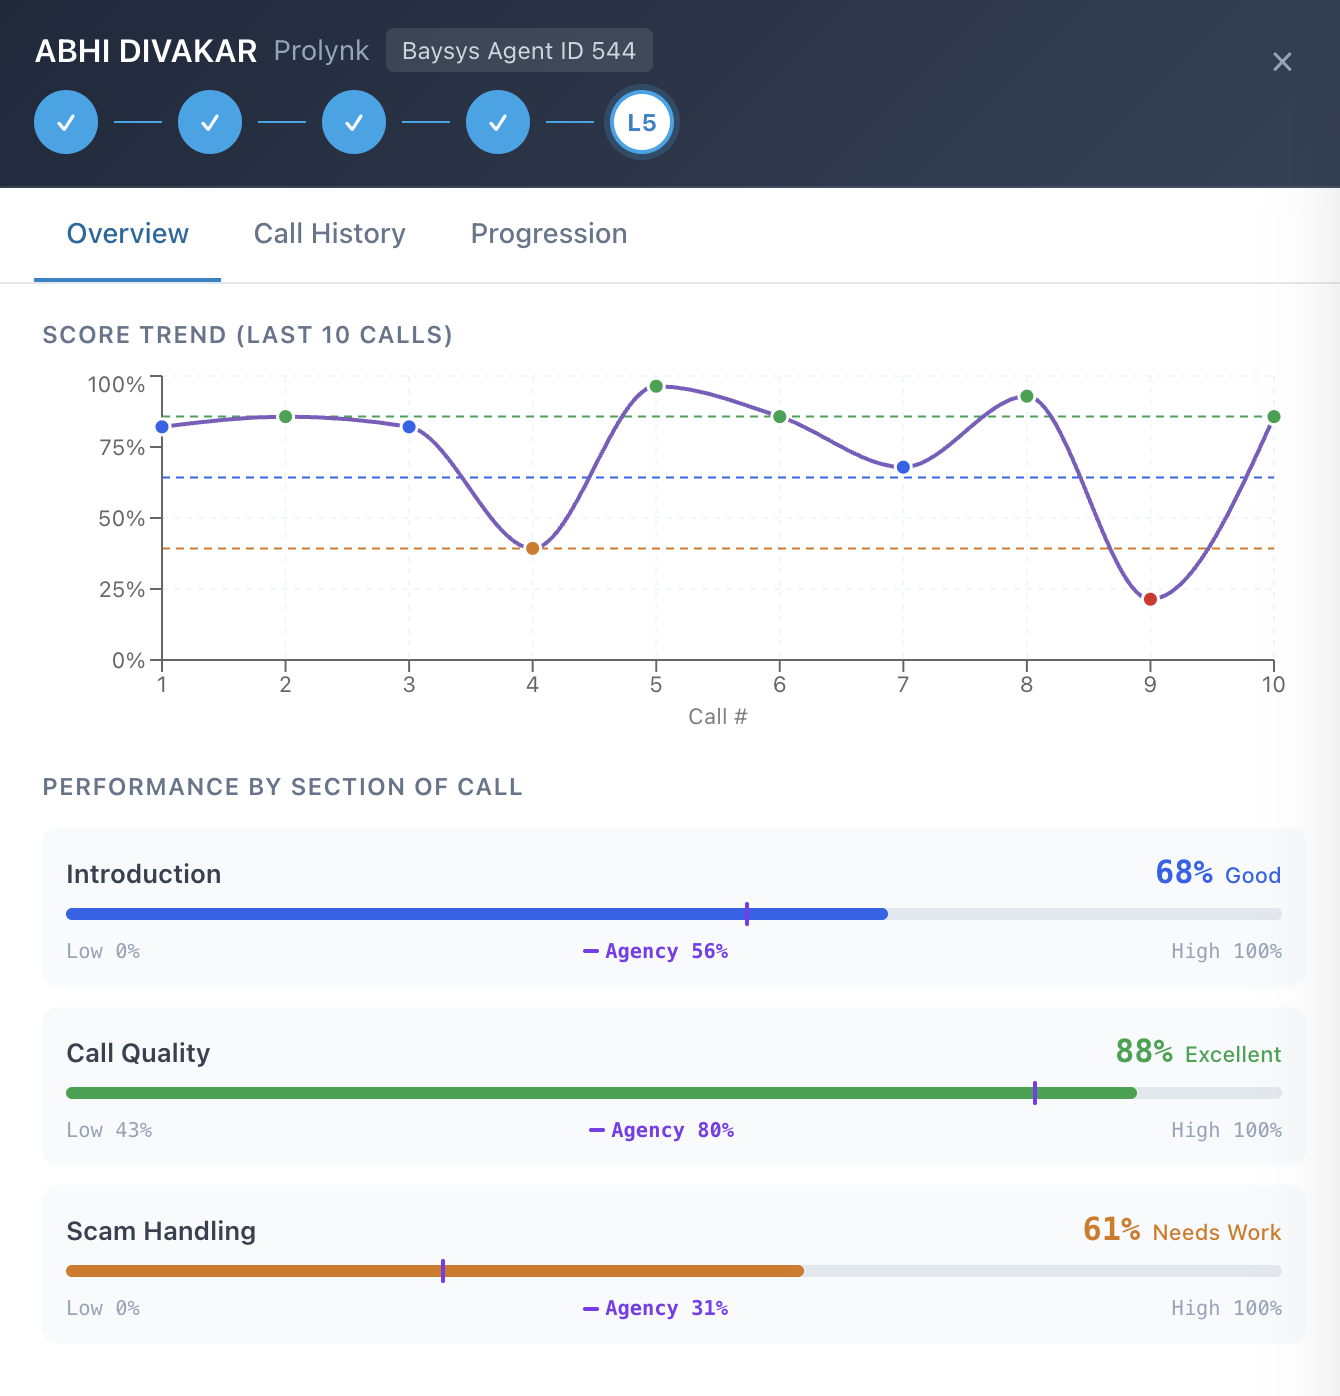
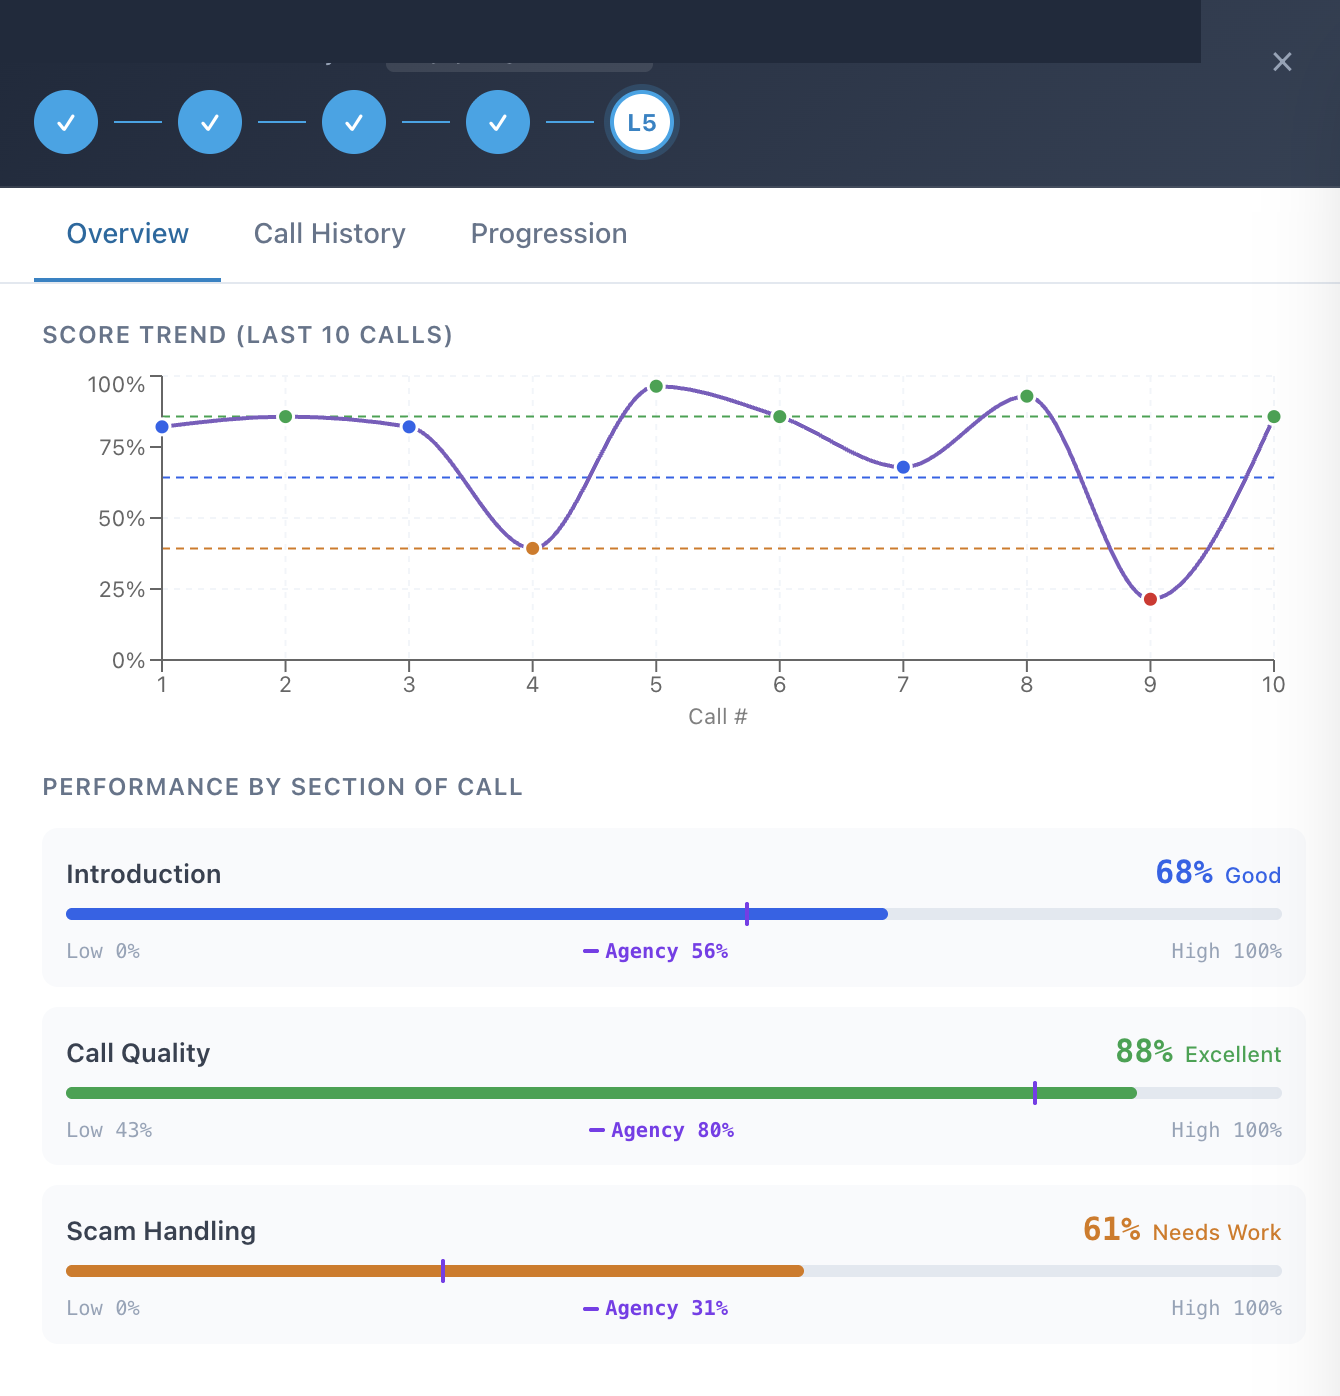
Anonymise agent name in story-continued article and screenshots

Changed region(s): [[0.0306, 0.0, 0.4896, 0.0616]]

diff --git a/posts/baystreet-agent-trainer-story-continued.html b/posts/baystreet-agent-trainer-story-continued.html
@@ -439,19 +439,19 @@
 
   <div class="section-rule"><span>One Agent's Record</span></div>
 
-  <h2>What the Drawer Shows: Abhi Divakar, Prolynk, Agent ID 544</h2>
+  <h2>What the Drawer Shows: An L5 Agent's Record</h2>
 
-  <p>Every agent in the dashboard is clickable. The agent drawer slides in from the right with three tabs: Overview (score trend and section performance), Call History (recent calls with expandable scorecards and audio), and Progression (level track with call counts at each level). The data in Abhi Divakar's drawer, from Prolynk, illustrates both what the system produces and what it reveals.</p>
+  <p>Every agent in the dashboard is clickable. The agent drawer slides in from the right with three tabs: Overview (score trend and section performance), Call History (recent calls with expandable scorecards and audio), and Progression (level track with call counts at each level). The data in one agent's drawer illustrates both what the system produces and what it reveals.</p>
 
   <div class="screenshot-wrap">
-    <img src="screenshots/score-trend-overview.png" alt="Abhi Divakar agent overview showing L5 level track, score trend over 10 calls, and section performance bars" class="screenshot-frame" />
-    <p class="fig-cap"><strong>Figure 7 — Agent Overview: Abhi Divakar, Prolynk.</strong> All four level checkmarks filled — Abhi has completed L1 through L4 and is now in L5 (adversarial personas, maximum difficulty). Score trend over last 10 calls shows wide volatility: two calls near 100%, one call in Needs Work territory (orange dot, call 5), one call ending as Poor (red dot, call 10). Section performance: Introduction 68% Good (above agency avg 56%), Call Quality 88% Excellent (above agency avg 80%), Scam Handling 60% Needs Work (above agency avg 30%). Even a high-performing L5 agent has not solved Scam-Trust.</p>
+    <img src="screenshots/score-trend-overview.png" alt="L5 agent overview showing level track, score trend over 10 calls, and section performance bars" class="screenshot-frame" />
+    <p class="fig-cap"><strong>Figure 7 — Agent Overview: an L5 agent's record.</strong> All four level checkmarks filled — this agent has completed L1 through L4 and is now in L5 (adversarial personas, maximum difficulty). Score trend over last 10 calls shows wide volatility: two calls near 100%, one call in Needs Work territory (orange dot, call 5), one call ending as Poor (red dot, call 10). Section performance: Introduction 68% Good (above agency avg 56%), Call Quality 88% Excellent (above agency avg 80%), Scam Handling 60% Needs Work (above agency avg 30%). Even a high-performing L5 agent has not solved Scam-Trust.</p>
   </div>
 
   <p>The score volatility at L5 is expected and by design. At L5, personas call the agent a fraudster directly, threaten to file a cybercrime complaint, and refuse any engagement without written documentation. A good call (92.9% Excellent) and a bad call (21.4% Poor) from the same agent against the same persona on consecutive days reflects not inconsistency but the nature of the difficulty. Some calls the customer is more willing to engage. The training value is not eliminating variance—it is developing the range of responses capable of handling the worst version of the scenario.</p>
 
   <div class="screenshot-wrap">
-    <img src="screenshots/call-history-scorecard.png" alt="Abhi Divakar call history showing recent Too Short calls and an expanded scorecard for call #4042 with coach note" class="screenshot-frame" />
+    <img src="screenshots/call-history-scorecard.png" alt="Agent call history showing recent Too Short calls and an expanded scorecard with coach note" class="screenshot-frame" />
     <p class="fig-cap"><strong>Figure 8 — Call History: four consecutive "Too Short" calls, then an Excellent.</strong> Calls #4631, #4589, #4389, #4376 (April 23–24) are all "Too Short" — below the 20-second minimum conversation duration gate added in S43a. These calls are not scored; the persona connection dropped before a real conversation began. Call #4042 (April 22) scored 92.9% Excellent with an expanded scorecard: Introduction 9/10, Call Quality 14/14, Scam-Trust 3/4. The single Introduction miss was not introducing by name before asking questions. The Scam-Trust miss was not offering an independent verification route. The coach note explains why the call worked and what to fix.</p>
   </div>
 
@@ -459,7 +459,7 @@
 
   <div class="scorecard-preview">
     <div class="sc-header">
-      <span>Call #4042 — Apr 22 2026 — Abhi Divakar vs. Sunita Kapoor L5</span>
+      <span>Call #4042 — Apr 22 2026 — Agent (L5) vs. Sunita Kapoor</span>
       <span style="color: #7ac87a;">92.9% Excellent</span>
     </div>
     <div class="sc-section">
@@ -490,7 +490,7 @@
     </div>
   </div>
 
-  <p>The coach note is generated by a dedicated Bolna extraction agent that analyzes the transcript independently of scoring. It is not a template. It reads the actual conversation and provides turn-specific feedback. In this case, it correctly identified that while Abhi established legitimacy, the sequencing was wrong—the push for confirmation came before sufficient organizational context was established, triggering the customer's suspicion. An agent reading this note has a specific, actionable instruction for the next call, not generic advice.</p>
+  <p>The coach note is generated by a dedicated Bolna extraction agent that analyzes the transcript independently of scoring. It is not a template. It reads the actual conversation and provides turn-specific feedback. In this case, it correctly identified that while the agent established legitimacy, the sequencing was wrong—the push for confirmation came before sufficient organizational context was established, triggering the customer's suspicion. An agent reading this note has a specific, actionable instruction for the next call, not generic advice.</p>
 
   <div class="section-rule"><span>System Reliability</span></div>
 
